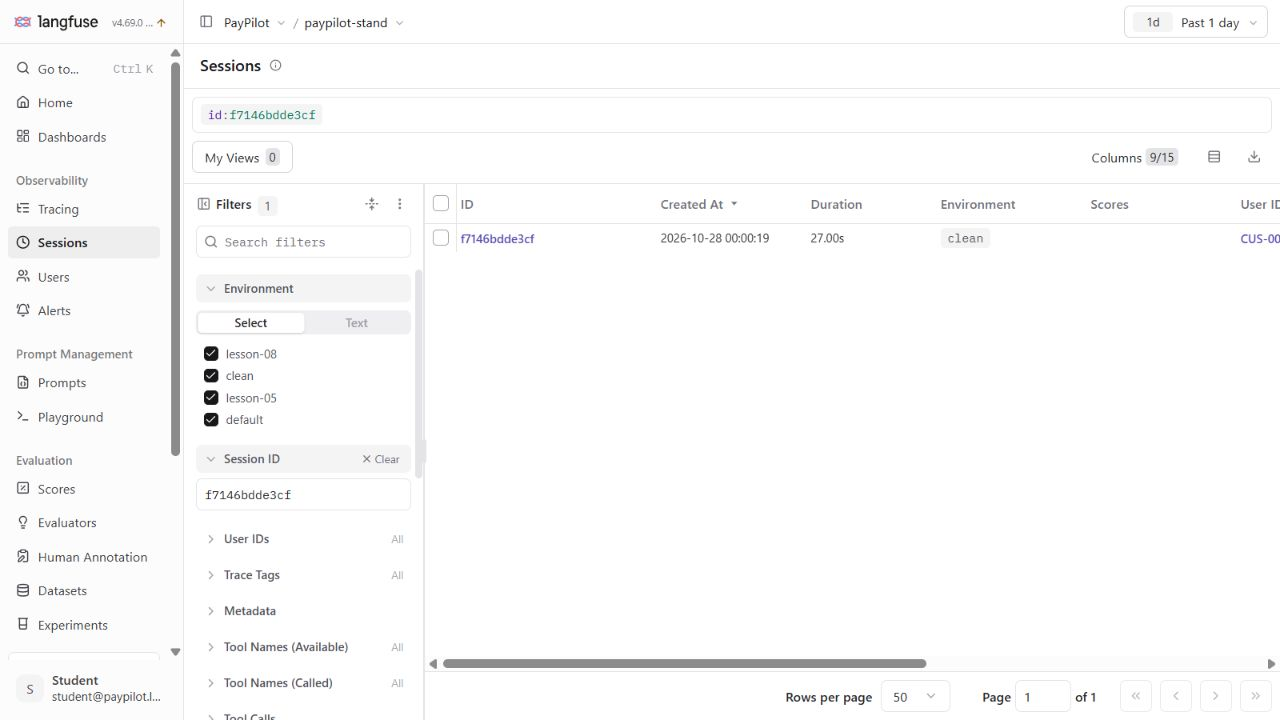
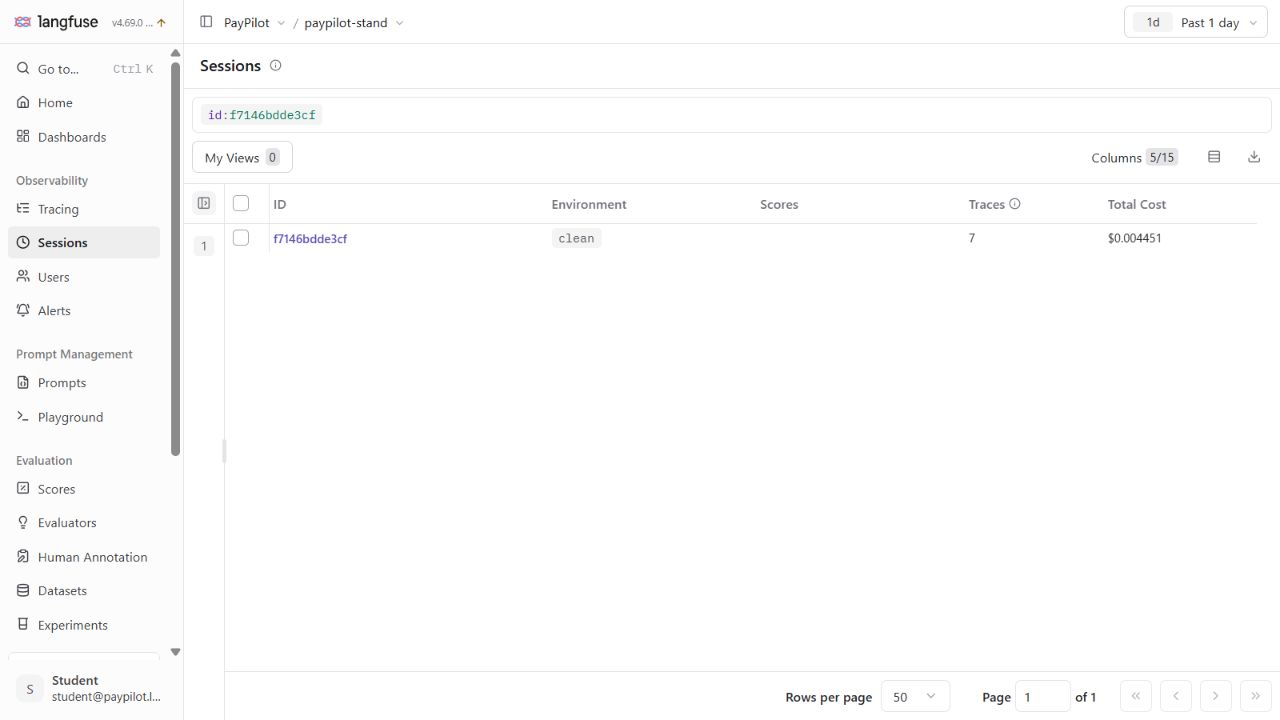
Verify clean-clone replay and finalize readable Langfuse proof

diff --git a/l08/observability-cost-report.template.md b/l08/observability-cost-report.template.md
@@ -17,6 +17,10 @@
 |---|---|---|---|---|
 | | | | | |
 
+| B2 · медіани | Clean | Lesson-08 |
+|---|---|---|
+| | | |
+
 ## Слайд 2 · Прогноз
 
 <Власні вимірювання, джерела та висновок.>
